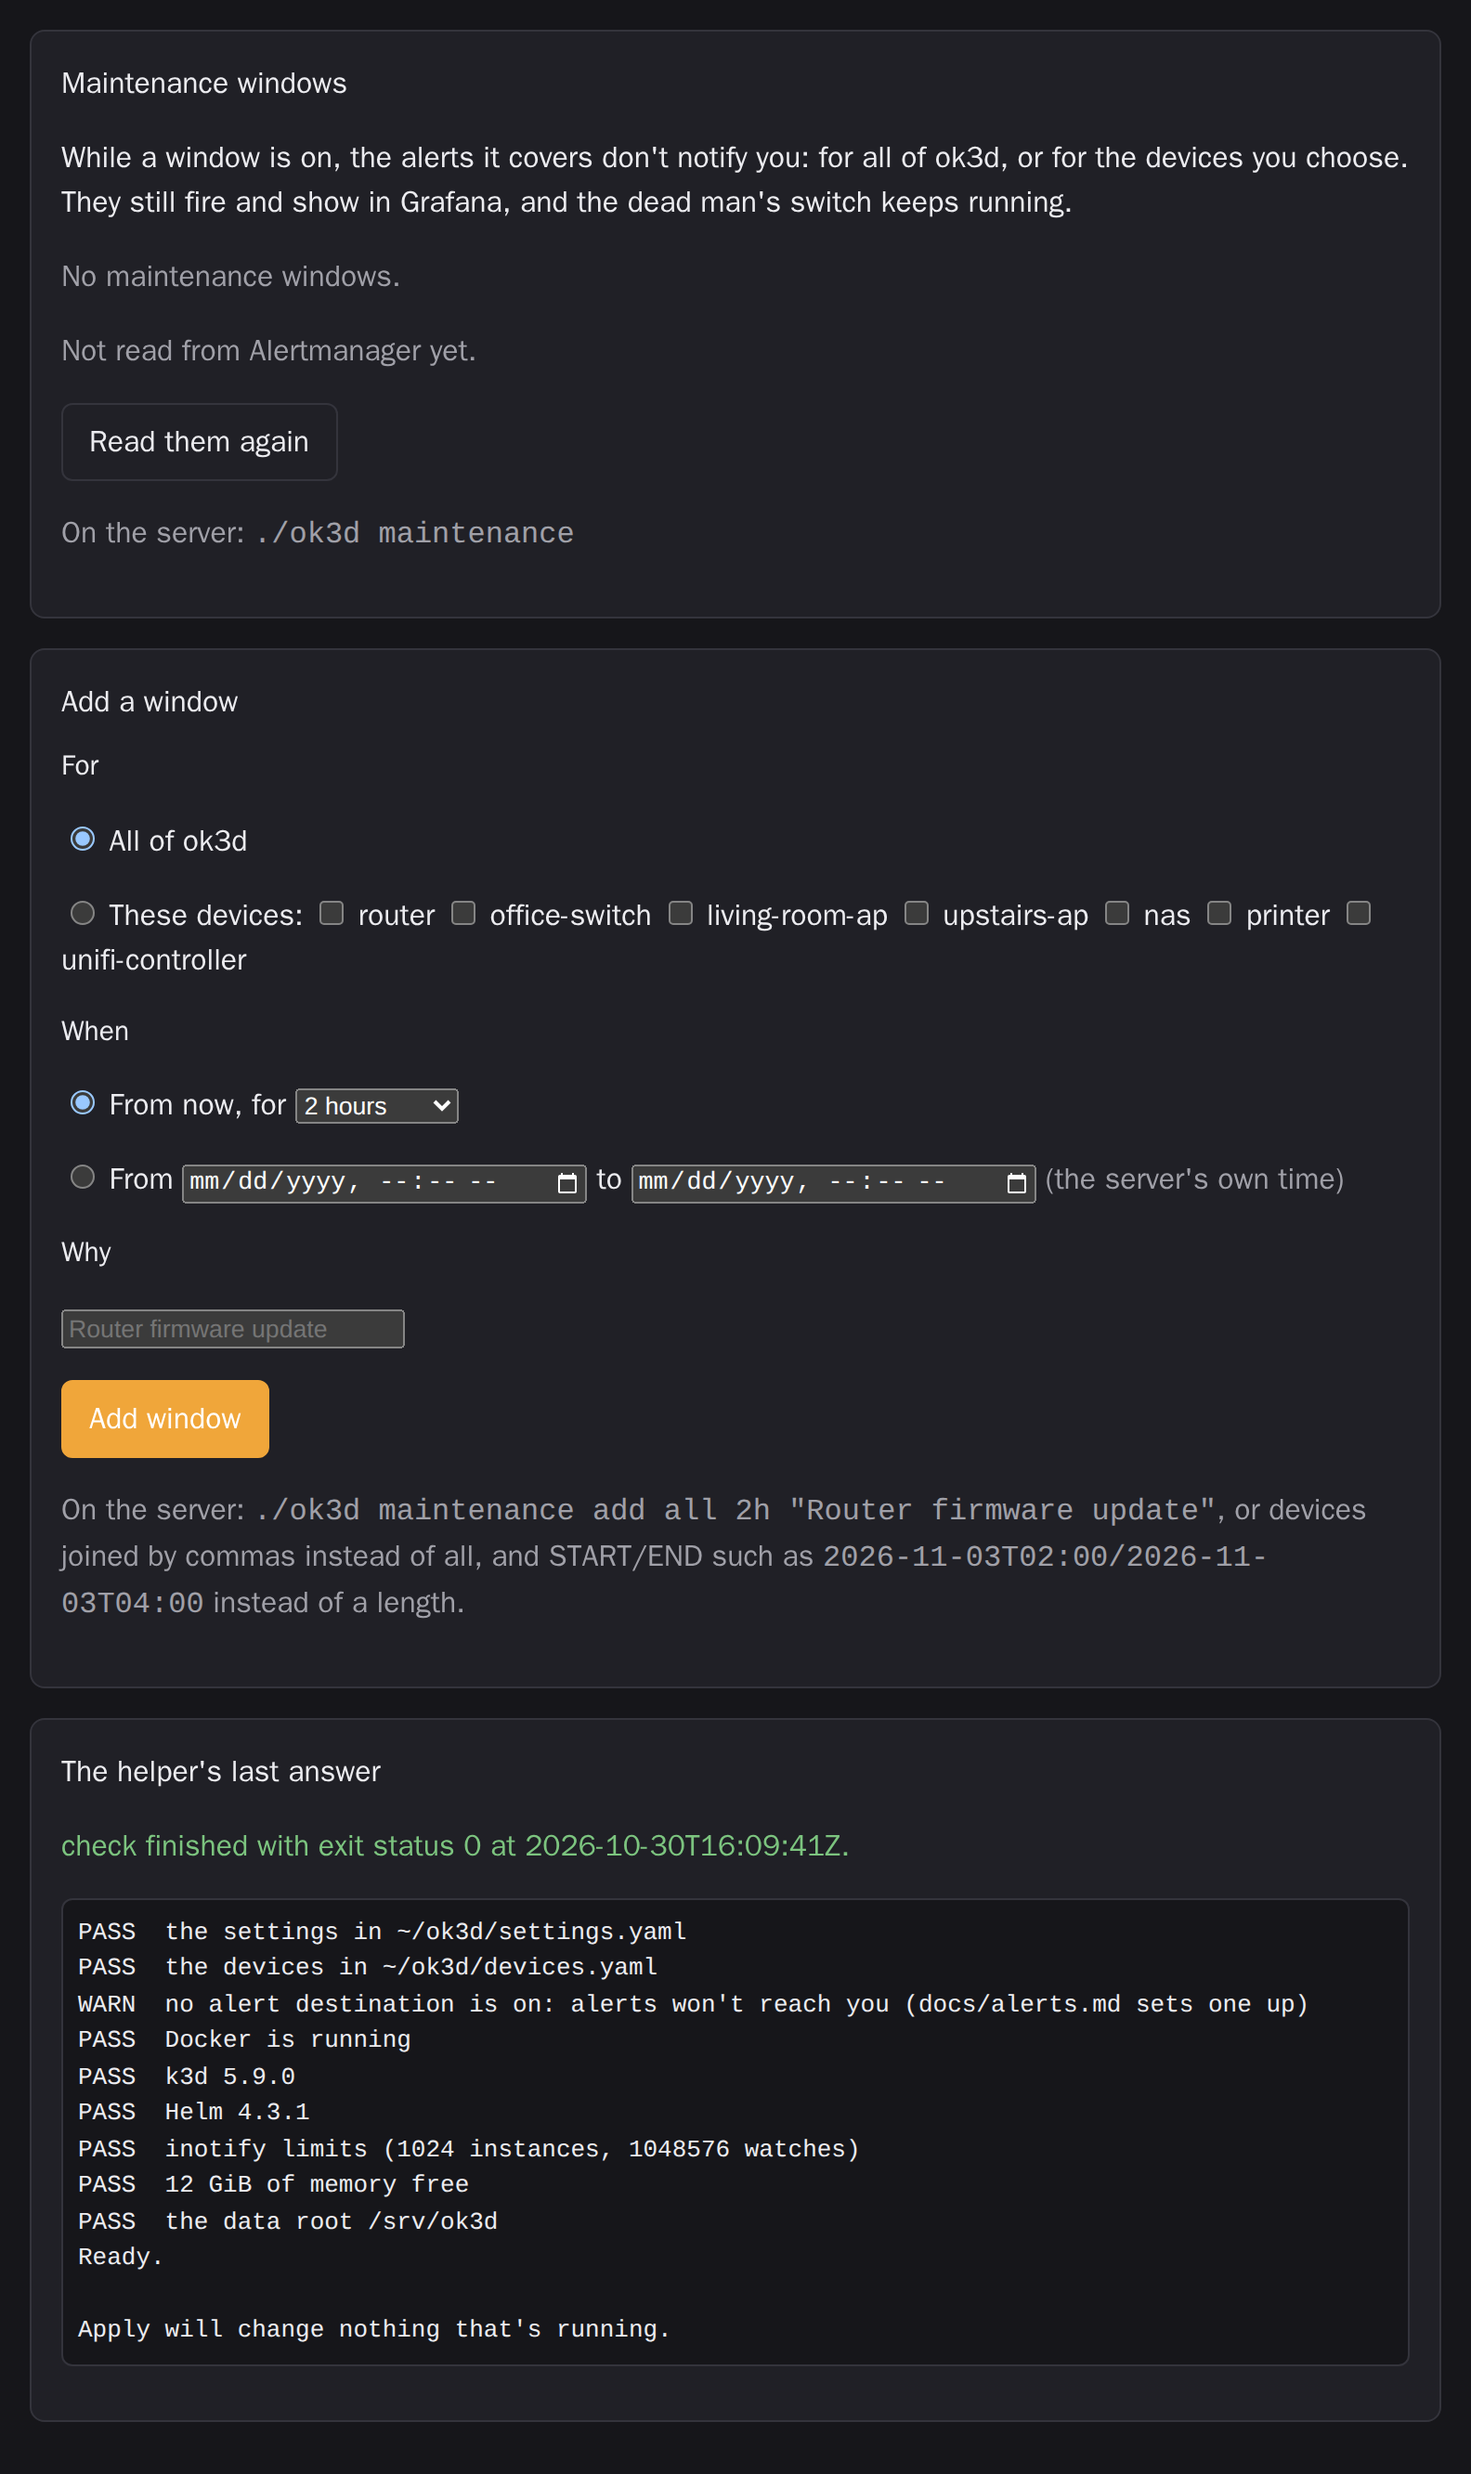
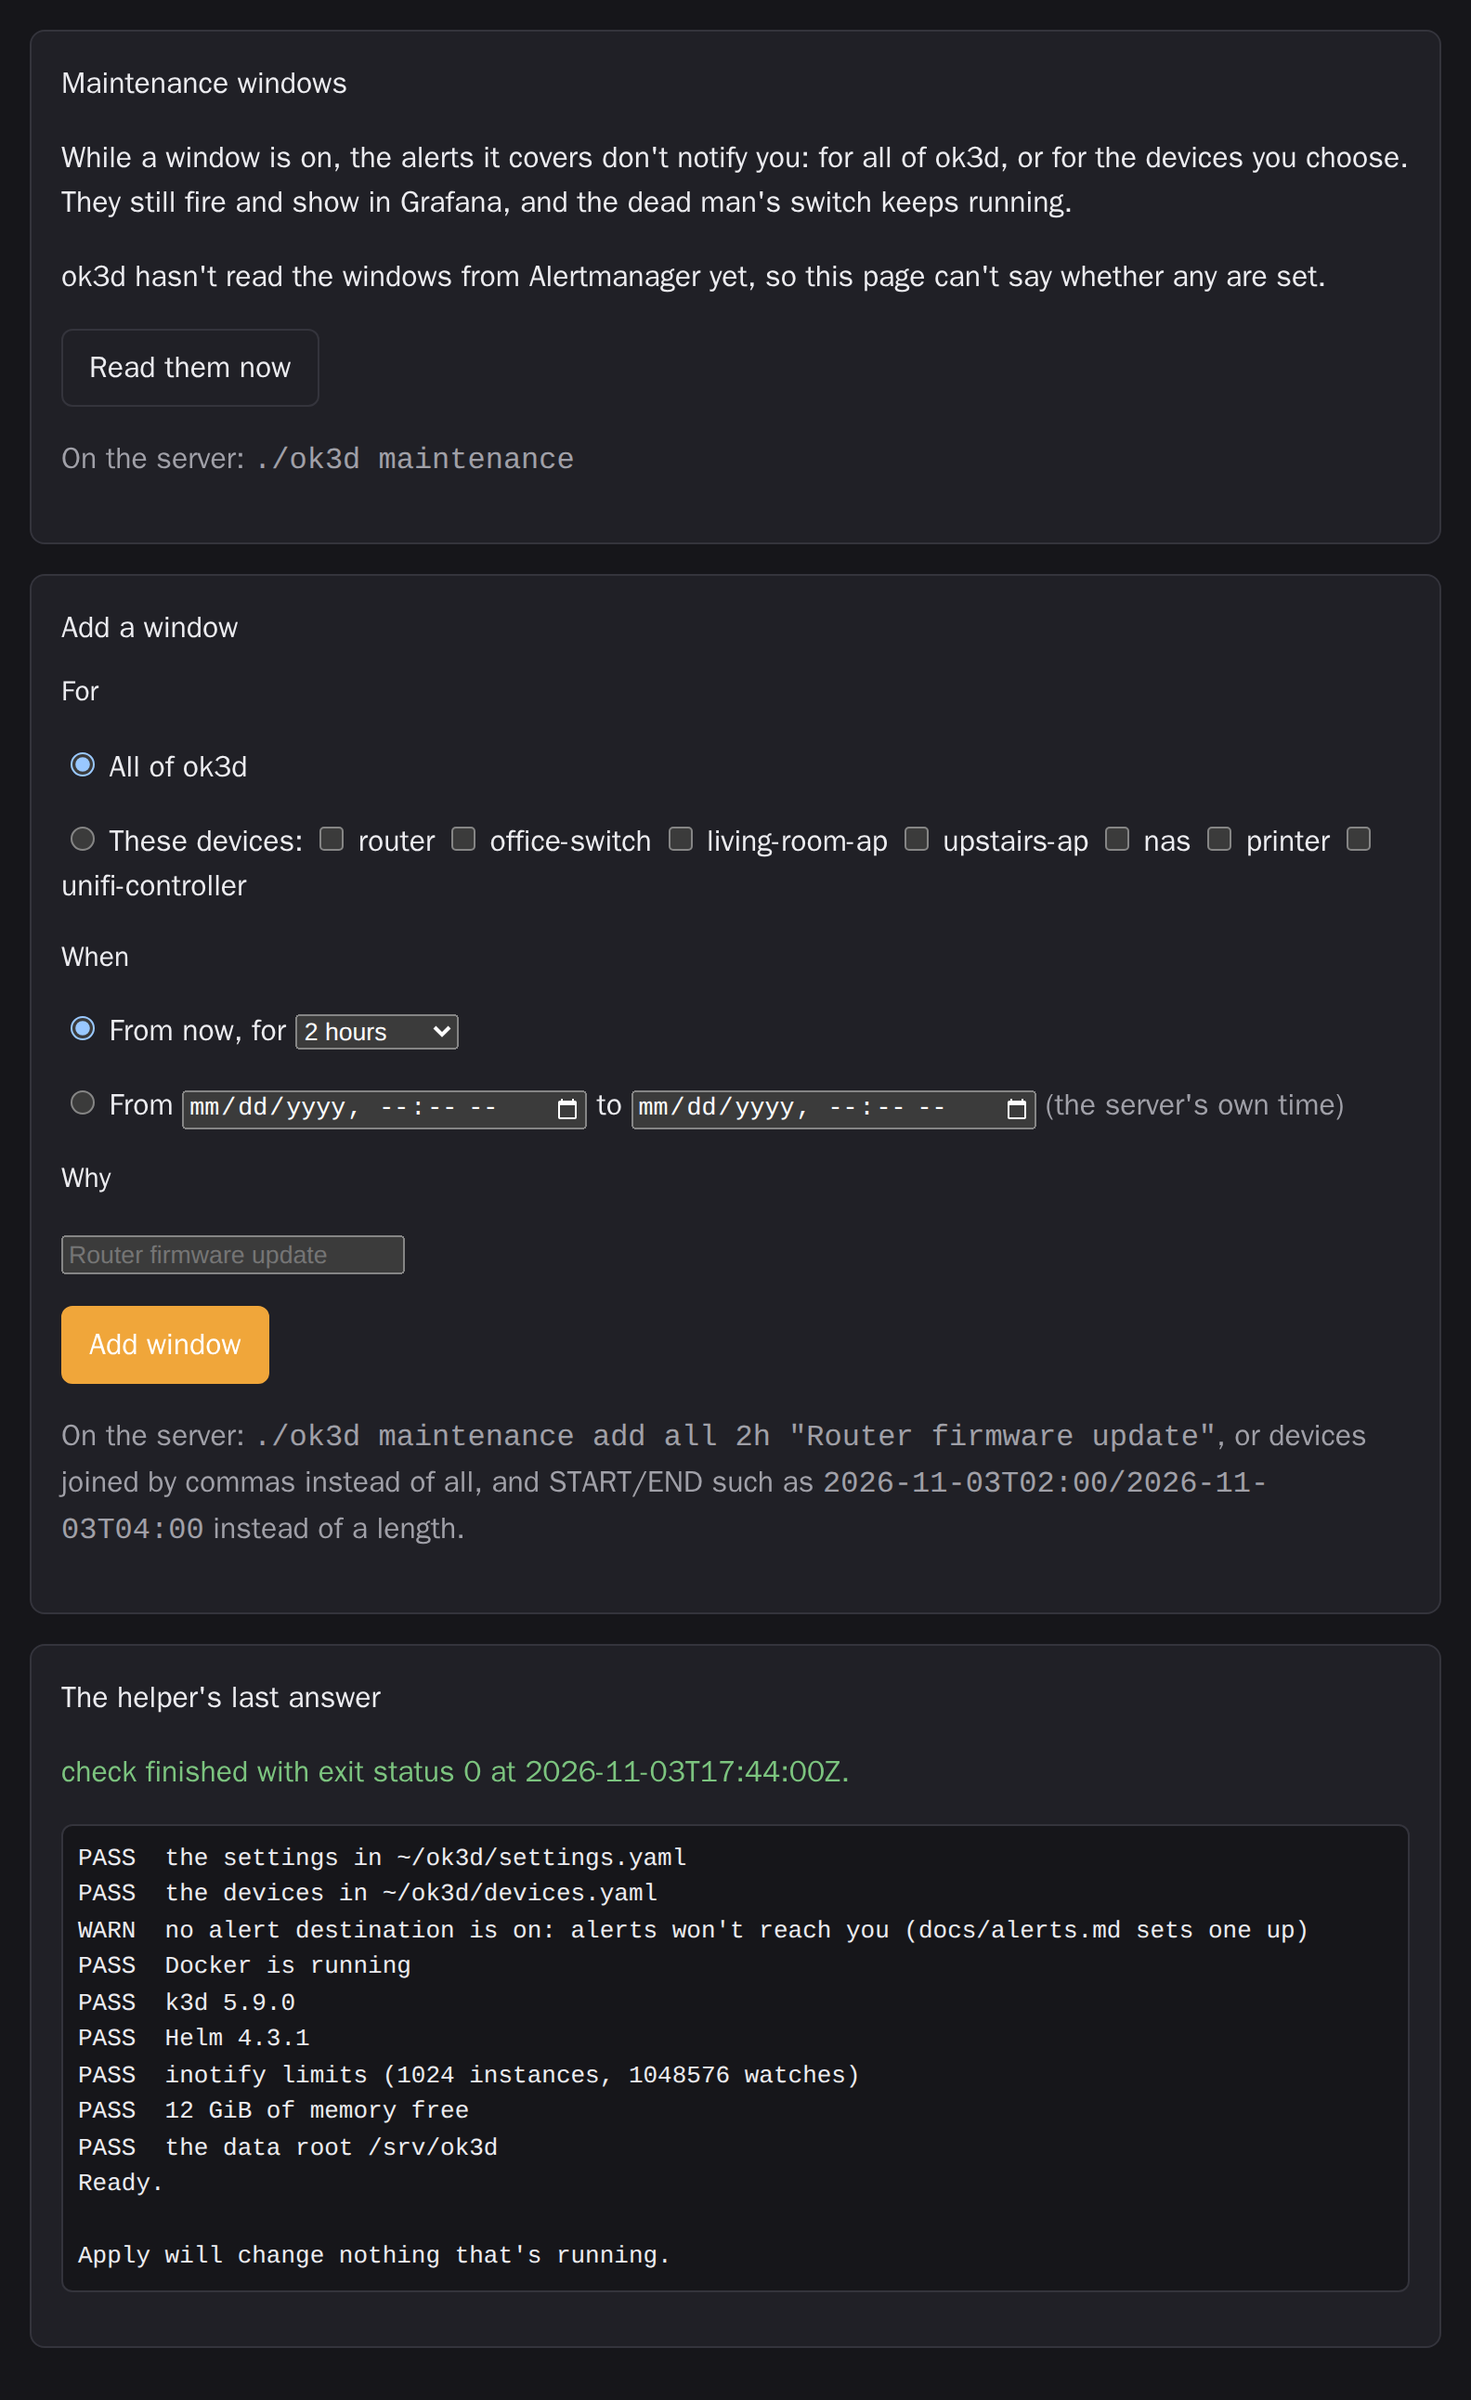
Maintenance: say Alertmanager hasn't been read yet (#49)
The Maintenance page said "No maintenance windows" before ok3d had read
them from Alertmanager, after a fresh install, say, though windows might
be set that it couldn't see. Now, until `helper/maintenance` has a
`checked=` time, the page says ok3d hasn't read the windows yet and
can't say whether any are set, and its button reads **Read them now**.
After a read, an empty list still says "No maintenance windows", with
the time of the read and **Read them again**.

This is the first item on the roadmap's 0.5.2 list.

## What changed

- `src/ok3d/dashboard/server.py`, `maintenance_page`: the not-read case
has its own sentence and button text. The muted "Read from Alertmanager
at ..." line shows only after a read, so the page doesn't say twice that
nothing has been read.
- Tests (`tests/test_dashboard.py`):
- No file, and a file without a valid `checked=`, never say there are no
windows and say "yet" only once. Both fail without the fix.
  - An empty read still says there are none.
- Docs: `docs/dashboard.md` (the page's description and the screenshot's
alt text) and `docs/dashboard-under-the-hood.md`. Also the CHANGELOG and
the roadmap.
- Screenshots: `dashboard-maintenance-{light,dark}.png`, retaken with
`scripts/screenshots.sh` after `--setup` on a fresh test VM, on the
simulated network. I looked at both before committing.

## Checks

`scripts/check.sh` passes (748 tests).

🤖 Generated with [Claude Code](https://claude.com/claude-code)

---------

diff --git a/src/ok3d/dashboard/server.py b/src/ok3d/dashboard/server.py
@@ -289,9 +289,17 @@ def maintenance_page(config: Config, message: str = "") -> str:
             + f' <form class="inline" method="post" action="/maintenance/end"><input type="hidden" name="window" '
             f'value="{html.escape(w.id)}"><button class="plain">End now</button></form></li>'
         )
-    listed = f"<ul class=todo>{''.join(rows)}</ul>" if rows else "<p class=muted>No maintenance windows.</p>"
-    checked = (f"Read from Alertmanager at {html.escape(found[0])}." if found
-               else "Not read from Alertmanager yet.")  # fmt: skip
+    if found is None:
+        # Nothing read yet (a fresh install, say): there may be windows this can't see, so it
+        # doesn't say there are none.
+        listed = ("<p>ok3d hasn't read the windows from Alertmanager yet, so this page can't say "
+                  "whether any are set.</p>")  # fmt: skip
+        read = "Read them now"
+    else:
+        listed = (f"<ul class=todo>{''.join(rows)}</ul>" if rows
+                  else "<p class=muted>No maintenance windows.</p>")  # fmt: skip
+        listed += f"<p class=muted>Read from Alertmanager at {html.escape(found[0])}.</p>"
+        read = "Read them again"
     devices = DEVICE_NAMES.findall(helper_link.current(config.helper, "devices.yaml") or "")
     boxes = "".join(f'<label><input type="checkbox" name="device-{html.escape(d)}" value="on"> {html.escape(d)}</label> '
                     for d in devices)  # fmt: skip
@@ -300,8 +308,8 @@ def maintenance_page(config: Config, message: str = "") -> str:
         f"<section><h2>Maintenance windows</h2>{note}"
         "<p>While a window is on, the alerts it covers don't notify you: for all of ok3d, or for the devices "
         "you choose. They still fire and show in Grafana, and the dead man's switch keeps running.</p>"
-        f"{listed}<p class=muted>{checked}</p>"
-        '<form method="post" action="/maintenance/refresh"><button class="plain">Read them again</button></form>'
+        f"{listed}"
+        f'<form method="post" action="/maintenance/refresh"><button class="plain">{read}</button></form>'
         "<p class=muted>On the server: <code>./ok3d maintenance</code></p></section>"
         '<section><h2>Add a window</h2><form method="post" action="/maintenance">'
         '<h3>For</h3><p><label><input type="radio" name="scope" value="all" checked> All of ok3d</label></p>'

diff --git a/tests/test_dashboard.py b/tests/test_dashboard.py
@@ -1156,6 +1156,26 @@ def test_the_maintenance_page_lists_the_windows(ready: Dashboard) -> None:
     assert "Read from Alertmanager at 2026-10-30T09:00:00Z." in page
 
 
+@pytest.mark.parametrize("note", [None, "window=not-checked\n"])
+def test_before_alertmanager_is_read_the_page_doesnt_say_there_are_no_windows(ready: Dashboard,
+                                                                              note: str | None) -> None:
+    # Until ./ok3d maintenance has read Alertmanager, there may be windows the page can't see.
+    if note is not None:
+        (ready.helper / "maintenance").write_text(note)
+    page = body(ready.get("/maintenance", ready.sign_in()))
+    assert "No maintenance windows." not in page and "Read from Alertmanager at" not in page
+    assert page.count("Alertmanager yet") == 1  # said once, not twice
+    assert "ok3d hasn't read the windows from Alertmanager yet" in page
+    assert '<button class="plain">Read them now</button>' in page
+
+
+def test_an_empty_read_says_there_are_no_windows(ready: Dashboard) -> None:
+    windows(ready)
+    page = body(ready.get("/maintenance", ready.sign_in()))
+    assert "No maintenance windows." in page and "Read from Alertmanager at 2026-10-30T09:00:00Z." in page
+    assert '<button class="plain">Read them again</button>' in page
+
+
 def test_home_says_while_a_window_is_on(ready: Dashboard) -> None:
     windows(ready, window("2020-01-01T00:00:00Z", "2099-01-01T00:00:00Z"))
     page = body(ready.get("/", ready.sign_in()))

diff --git a/docs/dashboard-under-the-hood.md b/docs/dashboard-under-the-hood.md
@@ -124,7 +124,7 @@ when the cluster is down.
 | Settings | Your `settings.yaml`, as the helper last copied it | Save a changed one |
 | Devices | Your `devices.yaml` (or an empty list) | Save a changed one |
 | Keys | Which lines of `.env` are set, never their values | Set or clear `UNIFI_API_KEY`, `NTFY_TOPIC`, `NTFY_TOKEN`, or `SMTP_PASSWORD` |
-| Maintenance | The maintenance windows ok3d made that haven't ended, and when they were last read from Alertmanager | Add a window (all of ok3d or ticked devices, a length or a start and an end, a reason), end one, read them again |
+| Maintenance | The maintenance windows ok3d made that haven't ended, and when they were last read from Alertmanager | Add a window (all of ok3d or ticked devices, a length or a start and an end, a reason), end one, read them (now, or again) |
 
 Every page also shows, in a muted line, what you'd do on the server instead: `./ok3d check`
 and `./ok3d apply` on Home, the file to edit and `./ok3d check` on Settings and Devices, the
@@ -189,8 +189,10 @@ with a note to wait. If the outbox can't be written, the page says so and sends 
   is never sent. The rest is checked on the server, since only it knows its own time zone
   and devices: that the end comes after the start and within 30 days, the devices are in
   `devices.yaml`, and there are fewer than 20 windows. Home shows that answer. Like any
-  request, it turns Apply off until the next Check. The windows come from `helper/maintenance`, which `./ok3d maintenance` writes
-  each time it adds, ends, or reads them: a line the Dashboard can't read whole is left out.
+  request, it turns Apply off until the next Check. The windows come from
+  `helper/maintenance`, which `./ok3d maintenance` writes each time it adds, ends, or reads
+  them: a line the Dashboard can't read whole is left out. Until that file has a valid
+  `checked=` time, the page says it hasn't read Alertmanager yet, never that there are no windows.
   The page knows a window is on, or has ended, from its times, without asking again.
 - **Keys** checks a value the way the helper will (one line of letters, digits, and symbols,
   with no spaces, quotes, backslashes, `$`, or backticks), so a value the helper would

diff --git a/docs/dashboard.md b/docs/dashboard.md
@@ -119,14 +119,15 @@ file on the server.
 
 <picture>
   <source media="(prefers-color-scheme: dark)" srcset="../images/screenshots/dashboard-maintenance-dark.png">
-  <img src="../images/screenshots/dashboard-maintenance-light.png" alt="The Dashboard's Maintenance page: no maintenance windows, not yet read from Alertmanager, a button to read them again, and a form to add one: for all of ok3d or ticked devices from the simulated network, from now for a length or between two times in the server's own time, and why, with the same command on the server." width="700">
+  <img src="../images/screenshots/dashboard-maintenance-light.png" alt="The Dashboard's Maintenance page: ok3d hasn't read the windows from Alertmanager yet, a button to read them now, and a form to add one: for all of ok3d or ticked devices from the simulated network, from now for a length or between two times in the server's own time, and why, with the same command on the server." width="700">
 </picture>
 
 **Maintenance** lists the maintenance windows: times when alerts don't notify you, for all of
 ok3d or for the devices you choose. Add one from now for a length, or between two times in
 the server's own time, with a reason if you like; **End now** ends one early. Home says while
-one is on. [Alerts](alerts.md#maintenance-windows-keeping-alerts-quiet-while-you-work) has the
-details.
+one is on. Until ok3d has read the windows from Alertmanager (after a fresh install, say), the
+page says so instead of listing none: **Read them now** reads them.
+[Alerts](alerts.md#maintenance-windows-keeping-alerts-quiet-while-you-work) has the details.
 
 ## Keys
 

diff --git a/docs/roadmap.md b/docs/roadmap.md
@@ -69,6 +69,6 @@ that upgrades from the Dashboard alone. 0.6.0, logs and changes, comes next.
 
 | Part | Status |
 |---|---|
-| The Maintenance page says it hasn't read Alertmanager yet, instead of "No maintenance windows" | Planned |
+| The Maintenance page says it hasn't read Alertmanager yet, instead of "No maintenance windows" | Done ([#49](https://github.com/southsidedean/observability-k3d/pull/49)) |
 | Check whether the upgrade from 0.5.1 restarts the gateway, as the one from 0.5.0 did | Planned |
 | Release 0.5.2, tested with an upgrade from 0.5.1 from the Dashboard alone | Planned |

diff --git a/CHANGELOG.md b/CHANGELOG.md
@@ -2,6 +2,12 @@
 
 ## 0.5.2 (unreleased)
 
+### Changes
+
+- The Maintenance page no longer says "No maintenance windows" before ok3d has read them from
+  Alertmanager, after a fresh install, say. It says it hasn't read them yet, with **Read them
+  now**.
+
 ## 0.5.1 (2026-10-30)
 
 ### Upgrading
